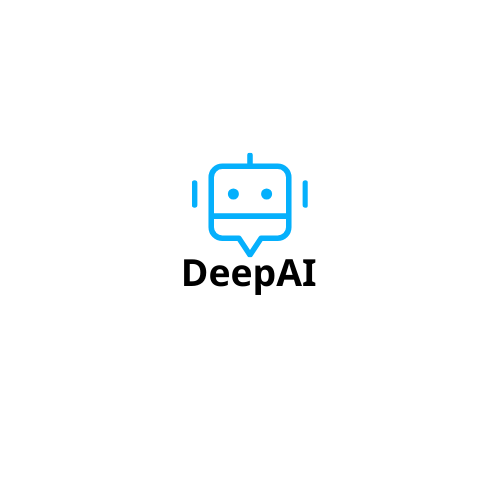
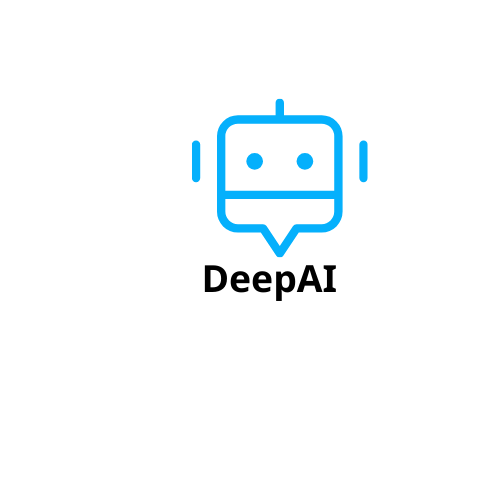
updated pic

Changed region(s): [[0.36, 0.18, 0.69, 0.6], [0.72, 0.27, 0.75, 0.36]]

diff --git a/index.html b/index.html
@@ -10,18 +10,17 @@
 
     <body>
         <section class="intro">
-            <h1>The  <strong>startup </strong>that redefines <strong>Internet</strong> </h1>
+            <h1>Your  <strong>friendly </strong>neighborhood <strong>AI companion</strong> </h1>
             <span class="beta-text">Currently in Beta</span>
             <p class="top-text">Powered by DeepAI</p>
         </section>
 
         <main class="main-content">
-            <img src="./DeepAI.png" alt="a person smiling" class="img-main" />
-            <h2>Deepan.me</h2>
-            <span class="subheading"> Liven up your profile pic</span>
+            <img src="./DeepAI.png" alt="ai logo image" class="img-main" />
+            <h2>DeepAI</h2>
+            <span class="subheading"> Your personal AI assistant</span>
             <p>
-                The product to learn and write beautiful code in order to show compelling websites. You are 
-                your own creator.
+                Focus on your goals and dreams and get help and guidance from your AI companion.
             </p>
             <form>
                 <input type="text" required placeholder="Name" aria-label="Name" />

diff --git a/styles.css b/styles.css
@@ -71,8 +71,8 @@ p {
 }
 
 .img-main {
-    width: 150px;
-    border-radius: 50%;
+    width: 120px;
+    border-radius: 80%;
 }
 
 
